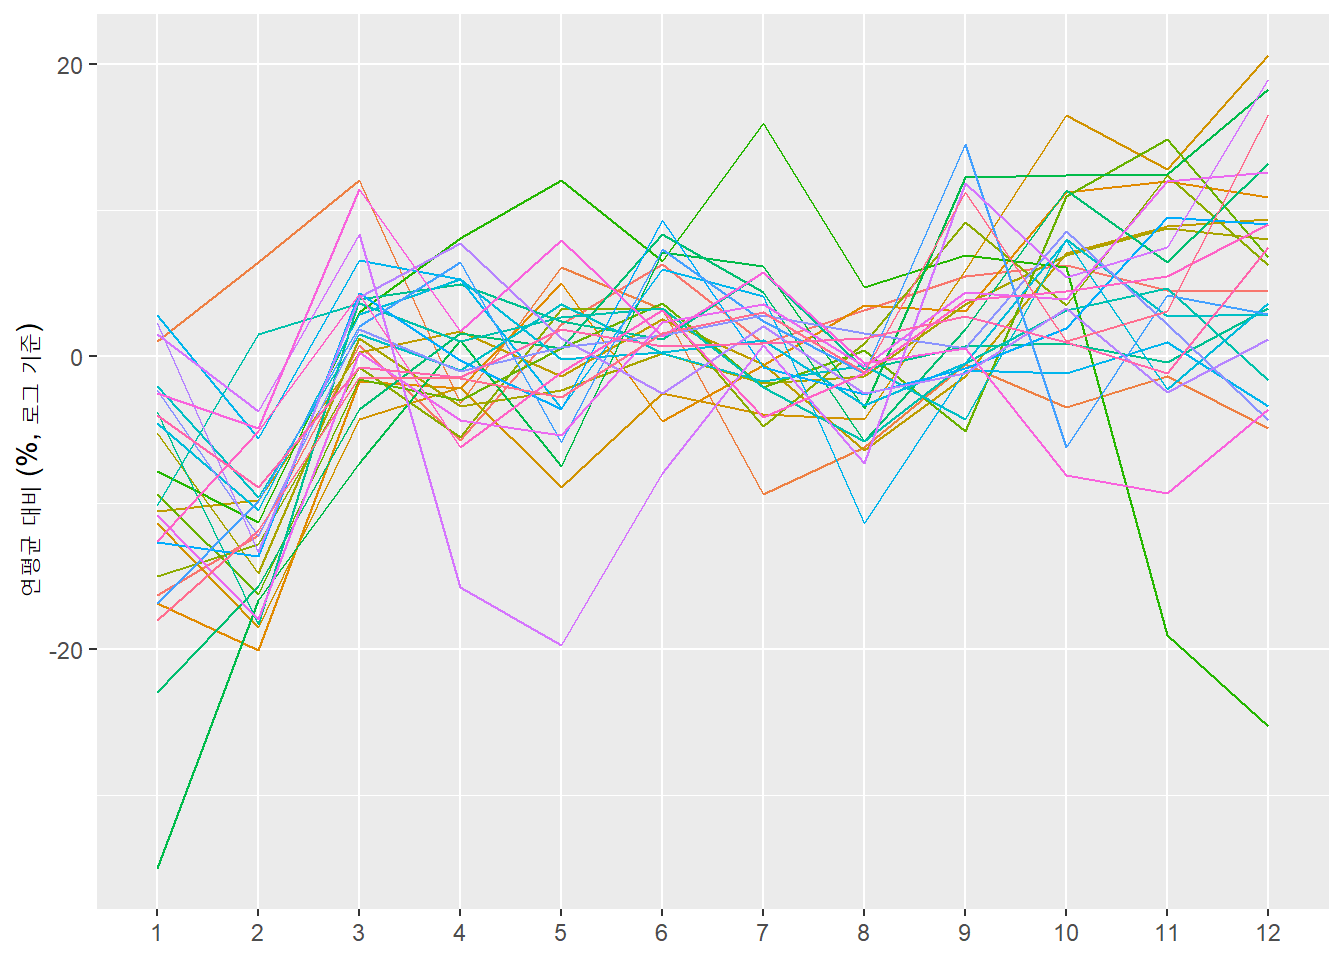
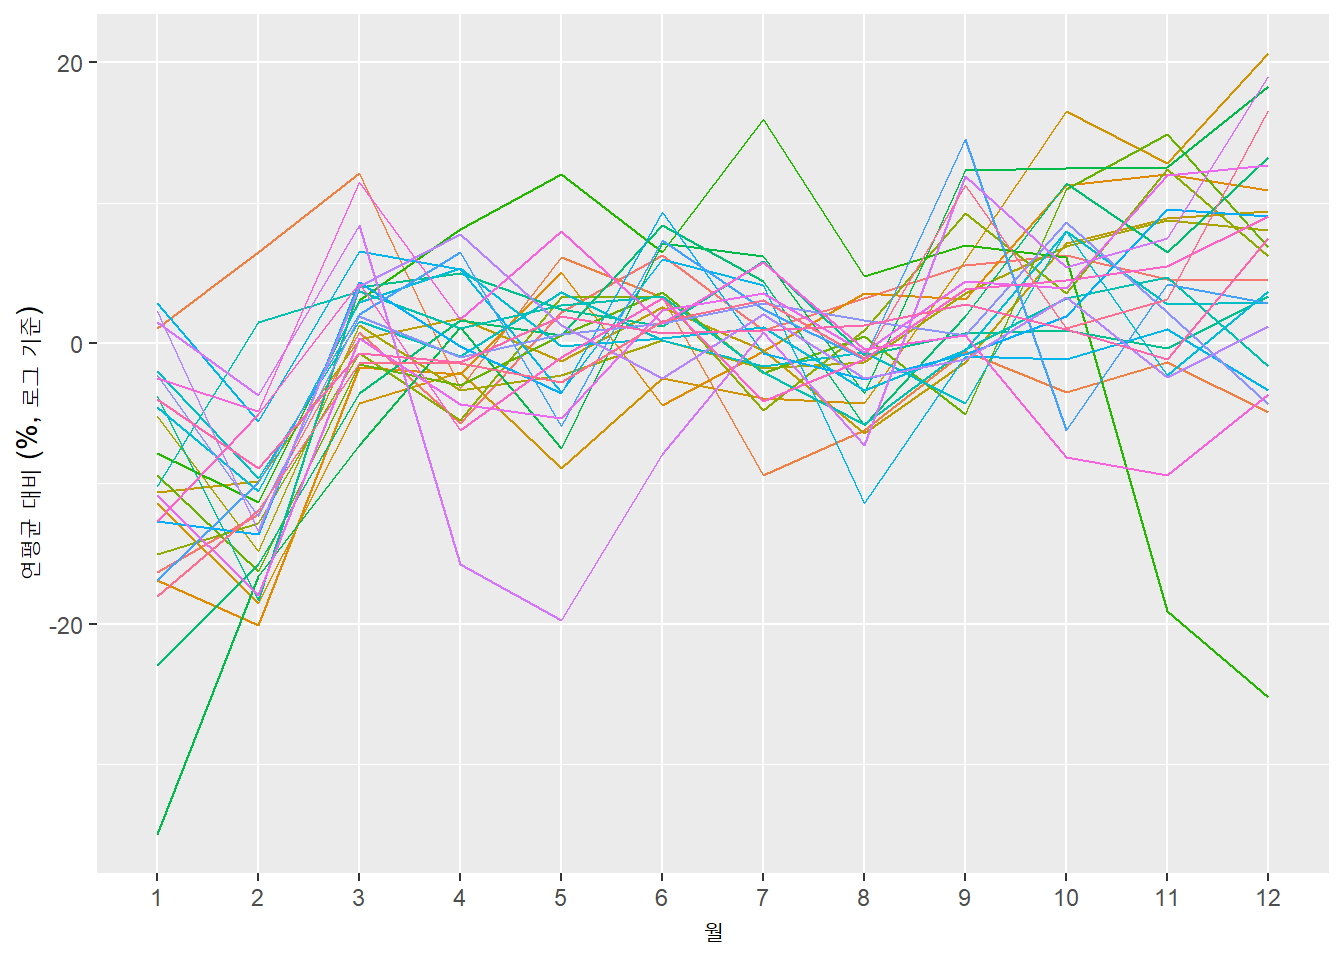
Built site for gh-pages

diff --git a/week05.html b/week05.html
@@ -177,7 +177,7 @@ window.Quarto = {
       <button type="button" class="quarto-btn-toggle btn" data-bs-toggle="collapse" role="button" data-bs-target=".quarto-sidebar-collapse-item" aria-controls="quarto-sidebar" aria-expanded="false" aria-label="Toggle sidebar navigation" onclick="if (window.quartoToggleHeadroom) { window.quartoToggleHeadroom(); }">
         <i class="bi bi-layout-text-sidebar-reverse"></i>
       </button>
-        <nav class="quarto-page-breadcrumbs" aria-label="breadcrumb"><ol class="breadcrumb"><li class="breadcrumb-item">5주차. 도구 적용하기 (2): 시계열 데이터</li></ol></nav>
+        <nav class="quarto-page-breadcrumbs" aria-label="breadcrumb"><ol class="breadcrumb"><li class="breadcrumb-item"><a href="./week01.html">강의자료</a></li><li class="breadcrumb-item"><a href="./week05.html">5주차. 도구 적용하기 (2): 시계열 데이터</a></li></ol></nav>
         <a class="flex-grow-1" role="navigation" data-bs-toggle="collapse" data-bs-target=".quarto-sidebar-collapse-item" aria-controls="quarto-sidebar" aria-expanded="false" aria-label="Toggle sidebar navigation" onclick="if (window.quartoToggleHeadroom) { window.quartoToggleHeadroom(); }">      
         </a>
       <button type="button" class="btn quarto-search-button" aria-label="Search" onclick="window.quartoOpenSearch();">
@@ -230,6 +230,12 @@ window.Quarto = {
  <span class="menu-text">4주차. 도구 적용하기 (1): 근로자 수준 데이터</span></a>
   </div>
 </li>
+          <li class="sidebar-item">
+  <div class="sidebar-item-container"> 
+  <a href="./week05.html" class="sidebar-item-text sidebar-link active">
+ <span class="menu-text">5주차. 도구 적용하기 (2): 시계열 데이터</span></a>
+  </div>
+</li>
       </ul>
   </li>
     </ul>
@@ -266,7 +272,7 @@ window.Quarto = {
 <!-- main -->
 <main class="content" id="quarto-document-content">
 
-<header id="title-block-header" class="quarto-title-block default">
+<header id="title-block-header" class="quarto-title-block default"><nav class="quarto-page-breadcrumbs quarto-title-breadcrumbs d-none d-lg-block" aria-label="breadcrumb"><ol class="breadcrumb"><li class="breadcrumb-item"><a href="./week01.html">강의자료</a></li><li class="breadcrumb-item"><a href="./week05.html">5주차. 도구 적용하기 (2): 시계열 데이터</a></li></ol></nav>
 <div class="quarto-title">
 <h1 class="title">5주차. 도구 적용하기 (2): 시계열 데이터</h1>
 </div>
@@ -525,7 +531,7 @@ window.Quarto = {
 </ul>
 <div class="cell">
 <div class="code-copy-outer-scaffold"><div class="sourceCode cell-code" id="cb6"><pre class="sourceCode r code-with-copy"><code class="sourceCode r"><span id="cb6-1"><a href="#cb6-1" aria-hidden="true" tabindex="-1"></a>df <span class="sc">|&gt;</span></span>
-<span id="cb6-2"><a href="#cb6-2" aria-hidden="true" tabindex="-1"></a><span class="fu">ggplot</span>(<span class="fu">aes</span>(date, export)) <span class="sc">+</span></span>
+<span id="cb6-2"><a href="#cb6-2" aria-hidden="true" tabindex="-1"></a><span class="fu">ggplot</span>(<span class="fu">aes</span>(<span class="at">x =</span> date, <span class="at">y =</span> export)) <span class="sc">+</span></span>
 <span id="cb6-3"><a href="#cb6-3" aria-hidden="true" tabindex="-1"></a>  <span class="fu">geom_line</span>() <span class="sc">+</span></span>
 <span id="cb6-4"><a href="#cb6-4" aria-hidden="true" tabindex="-1"></a>  <span class="fu">labs</span>(<span class="at">title =</span> <span class="st">"월별 수출액 (2000년 1월 ~ 2025년 12월)"</span>, <span class="at">x =</span> <span class="cn">NULL</span>, <span class="at">y =</span> <span class="st">"수출액 (천불)"</span>)</span></code></pre></div><button title="Copy to Clipboard" class="code-copy-button"><i class="bi"></i></button></div>
 <div class="cell-output-display">
@@ -612,7 +618,7 @@ window.Quarto = {
 <span id="cb9-2"><a href="#cb9-2" aria-hidden="true" tabindex="-1"></a>  <span class="fu">mutate</span>(<span class="at">gr_exp =</span> (export <span class="sc">/</span> <span class="fu">lag</span>(export)     <span class="sc">-</span> <span class="dv">1</span>) <span class="sc">*</span> <span class="dv">100</span>) </span>
 <span id="cb9-3"><a href="#cb9-3" aria-hidden="true" tabindex="-1"></a></span>
 <span id="cb9-4"><a href="#cb9-4" aria-hidden="true" tabindex="-1"></a>df <span class="sc">|&gt;</span></span>
-<span id="cb9-5"><a href="#cb9-5" aria-hidden="true" tabindex="-1"></a>  <span class="fu">ggplot</span>(<span class="fu">aes</span>(date, gr_exp)) <span class="sc">+</span></span>
+<span id="cb9-5"><a href="#cb9-5" aria-hidden="true" tabindex="-1"></a>  <span class="fu">ggplot</span>(<span class="fu">aes</span>(<span class="at">x =</span> date, <span class="at">y =</span> gr_exp)) <span class="sc">+</span></span>
 <span id="cb9-6"><a href="#cb9-6" aria-hidden="true" tabindex="-1"></a>    <span class="fu">geom_line</span>() <span class="sc">+</span></span>
 <span id="cb9-7"><a href="#cb9-7" aria-hidden="true" tabindex="-1"></a>    <span class="fu">labs</span>(<span class="at">title =</span> <span class="st">"월별 수출액 증가율"</span>, <span class="at">x =</span> <span class="cn">NULL</span>, <span class="at">y =</span> <span class="st">"증가율(%)"</span>)</span></code></pre></div><button title="Copy to Clipboard" class="code-copy-button"><i class="bi"></i></button></div>
 <div class="cell-output-display">
@@ -636,7 +642,7 @@ window.Quarto = {
 <span id="cb10-3"><a href="#cb10-3" aria-hidden="true" tabindex="-1"></a>         <span class="at">dlog      =</span> (log_export <span class="sc">-</span> <span class="fu">lag</span>(log_export)) <span class="sc">*</span> <span class="dv">100</span>)</span>
 <span id="cb10-4"><a href="#cb10-4" aria-hidden="true" tabindex="-1"></a></span>
 <span id="cb10-5"><a href="#cb10-5" aria-hidden="true" tabindex="-1"></a>df <span class="sc">|&gt;</span></span>
-<span id="cb10-6"><a href="#cb10-6" aria-hidden="true" tabindex="-1"></a>  <span class="fu">ggplot</span>(<span class="fu">aes</span>(date, dlog)) <span class="sc">+</span></span>
+<span id="cb10-6"><a href="#cb10-6" aria-hidden="true" tabindex="-1"></a>  <span class="fu">ggplot</span>(<span class="fu">aes</span>(<span class="at">x =</span> date, <span class="at">y =</span> dlog)) <span class="sc">+</span></span>
 <span id="cb10-7"><a href="#cb10-7" aria-hidden="true" tabindex="-1"></a>    <span class="fu">geom_line</span>() <span class="sc">+</span></span>
 <span id="cb10-8"><a href="#cb10-8" aria-hidden="true" tabindex="-1"></a>    <span class="fu">labs</span>(<span class="at">title =</span> <span class="st">"월별 수출액 로그차분"</span>, <span class="at">x =</span> <span class="cn">NULL</span>, <span class="at">y =</span> <span class="st">"로그변화율(%)"</span>)</span></code></pre></div><button title="Copy to Clipboard" class="code-copy-button"><i class="bi"></i></button></div>
 <div class="cell-output-display">
@@ -702,9 +708,9 @@ window.Quarto = {
 <span id="cb13-3"><a href="#cb13-3" aria-hidden="true" tabindex="-1"></a><span class="co">#  filter(year &gt;= max(year) - 9) |&gt;   # 최근 10년 (2016~2025)</span></span>
 <span id="cb13-4"><a href="#cb13-4" aria-hidden="true" tabindex="-1"></a>  <span class="fu">group_by</span>(year) <span class="sc">|&gt;</span></span>
 <span id="cb13-5"><a href="#cb13-5" aria-hidden="true" tabindex="-1"></a>  <span class="fu">mutate</span>(<span class="at">dev =</span> (<span class="fu">log</span>(export) <span class="sc">-</span> <span class="fu">mean</span>(<span class="fu">log</span>(export))) <span class="sc">*</span> <span class="dv">100</span>) <span class="sc">|&gt;</span></span>
-<span id="cb13-6"><a href="#cb13-6" aria-hidden="true" tabindex="-1"></a>  <span class="fu">ggplot</span>(<span class="fu">aes</span>(month, dev, <span class="at">group =</span> year, <span class="at">color =</span> <span class="fu">factor</span>(year))) <span class="sc">+</span></span>
+<span id="cb13-6"><a href="#cb13-6" aria-hidden="true" tabindex="-1"></a>  <span class="fu">ggplot</span>(<span class="fu">aes</span>(<span class="at">x =</span> month, <span class="at">y =</span> dev, <span class="at">group =</span> year, <span class="at">color =</span> <span class="fu">factor</span>(year))) <span class="sc">+</span></span>
 <span id="cb13-7"><a href="#cb13-7" aria-hidden="true" tabindex="-1"></a>  <span class="fu">geom_line</span>() <span class="sc">+</span></span>
-<span id="cb13-8"><a href="#cb13-8" aria-hidden="true" tabindex="-1"></a>  <span class="fu">labs</span>(<span class="at">x =</span> <span class="cn">NULL</span>, <span class="at">y =</span> <span class="st">"연평균 대비 (%, 로그 기준)"</span>) <span class="sc">+</span></span>
+<span id="cb13-8"><a href="#cb13-8" aria-hidden="true" tabindex="-1"></a>  <span class="fu">labs</span>(<span class="at">x =</span> <span class="st">"월"</span>, <span class="at">y =</span> <span class="st">"연평균 대비 (%, 로그 기준)"</span>) <span class="sc">+</span></span>
 <span id="cb13-9"><a href="#cb13-9" aria-hidden="true" tabindex="-1"></a>  <span class="fu">theme</span>(<span class="at">legend.position =</span> <span class="st">"none"</span>)  </span></code></pre></div><button title="Copy to Clipboard" class="code-copy-button"><i class="bi"></i></button></div>
 <div class="cell-output-display">
 <div>

diff --git a/week01.html b/week01.html
@@ -201,6 +201,12 @@ pre > code.sourceCode > span > a:first-child::before { text-decoration: underlin
  <span class="menu-text">4주차. 도구 적용하기 (1): 근로자 수준 데이터</span></a>
   </div>
 </li>
+          <li class="sidebar-item">
+  <div class="sidebar-item-container"> 
+  <a href="./week05.html" class="sidebar-item-text sidebar-link">
+ <span class="menu-text">5주차. 도구 적용하기 (2): 시계열 데이터</span></a>
+  </div>
+</li>
       </ul>
   </li>
     </ul>

diff --git a/week02.html b/week02.html
@@ -201,6 +201,12 @@ pre > code.sourceCode > span > a:first-child::before { text-decoration: underlin
  <span class="menu-text">4주차. 도구 적용하기 (1): 근로자 수준 데이터</span></a>
   </div>
 </li>
+          <li class="sidebar-item">
+  <div class="sidebar-item-container"> 
+  <a href="./week05.html" class="sidebar-item-text sidebar-link">
+ <span class="menu-text">5주차. 도구 적용하기 (2): 시계열 데이터</span></a>
+  </div>
+</li>
       </ul>
   </li>
     </ul>

diff --git a/week03.html b/week03.html
@@ -201,6 +201,12 @@ pre > code.sourceCode > span > a:first-child::before { text-decoration: underlin
  <span class="menu-text">4주차. 도구 적용하기 (1): 근로자 수준 데이터</span></a>
   </div>
 </li>
+          <li class="sidebar-item">
+  <div class="sidebar-item-container"> 
+  <a href="./week05.html" class="sidebar-item-text sidebar-link">
+ <span class="menu-text">5주차. 도구 적용하기 (2): 시계열 데이터</span></a>
+  </div>
+</li>
       </ul>
   </li>
     </ul>

diff --git a/index.html b/index.html
@@ -166,6 +166,12 @@ ul.task-list li input[type="checkbox"] {
  <span class="menu-text">4주차. 도구 적용하기 (1): 근로자 수준 데이터</span></a>
   </div>
 </li>
+          <li class="sidebar-item">
+  <div class="sidebar-item-container"> 
+  <a href="./week05.html" class="sidebar-item-text sidebar-link">
+ <span class="menu-text">5주차. 도구 적용하기 (2): 시계열 데이터</span></a>
+  </div>
+</li>
       </ul>
   </li>
     </ul>

diff --git a/schedules.html b/schedules.html
@@ -166,6 +166,12 @@ ul.task-list li input[type="checkbox"] {
  <span class="menu-text">4주차. 도구 적용하기 (1): 근로자 수준 데이터</span></a>
   </div>
 </li>
+          <li class="sidebar-item">
+  <div class="sidebar-item-container"> 
+  <a href="./week05.html" class="sidebar-item-text sidebar-link">
+ <span class="menu-text">5주차. 도구 적용하기 (2): 시계열 데이터</span></a>
+  </div>
+</li>
       </ul>
   </li>
     </ul>

diff --git a/syllabus.html b/syllabus.html
@@ -166,6 +166,12 @@ ul.task-list li input[type="checkbox"] {
  <span class="menu-text">4주차. 도구 적용하기 (1): 근로자 수준 데이터</span></a>
   </div>
 </li>
+          <li class="sidebar-item">
+  <div class="sidebar-item-container"> 
+  <a href="./week05.html" class="sidebar-item-text sidebar-link">
+ <span class="menu-text">5주차. 도구 적용하기 (2): 시계열 데이터</span></a>
+  </div>
+</li>
       </ul>
   </li>
     </ul>

diff --git a/week04.html b/week04.html
@@ -230,6 +230,12 @@ window.Quarto = {
  <span class="menu-text">4주차. 도구 적용하기 (1): 근로자 수준 데이터</span></a>
   </div>
 </li>
+          <li class="sidebar-item">
+  <div class="sidebar-item-container"> 
+  <a href="./week05.html" class="sidebar-item-text sidebar-link">
+ <span class="menu-text">5주차. 도구 적용하기 (2): 시계열 데이터</span></a>
+  </div>
+</li>
       </ul>
   </li>
     </ul>
